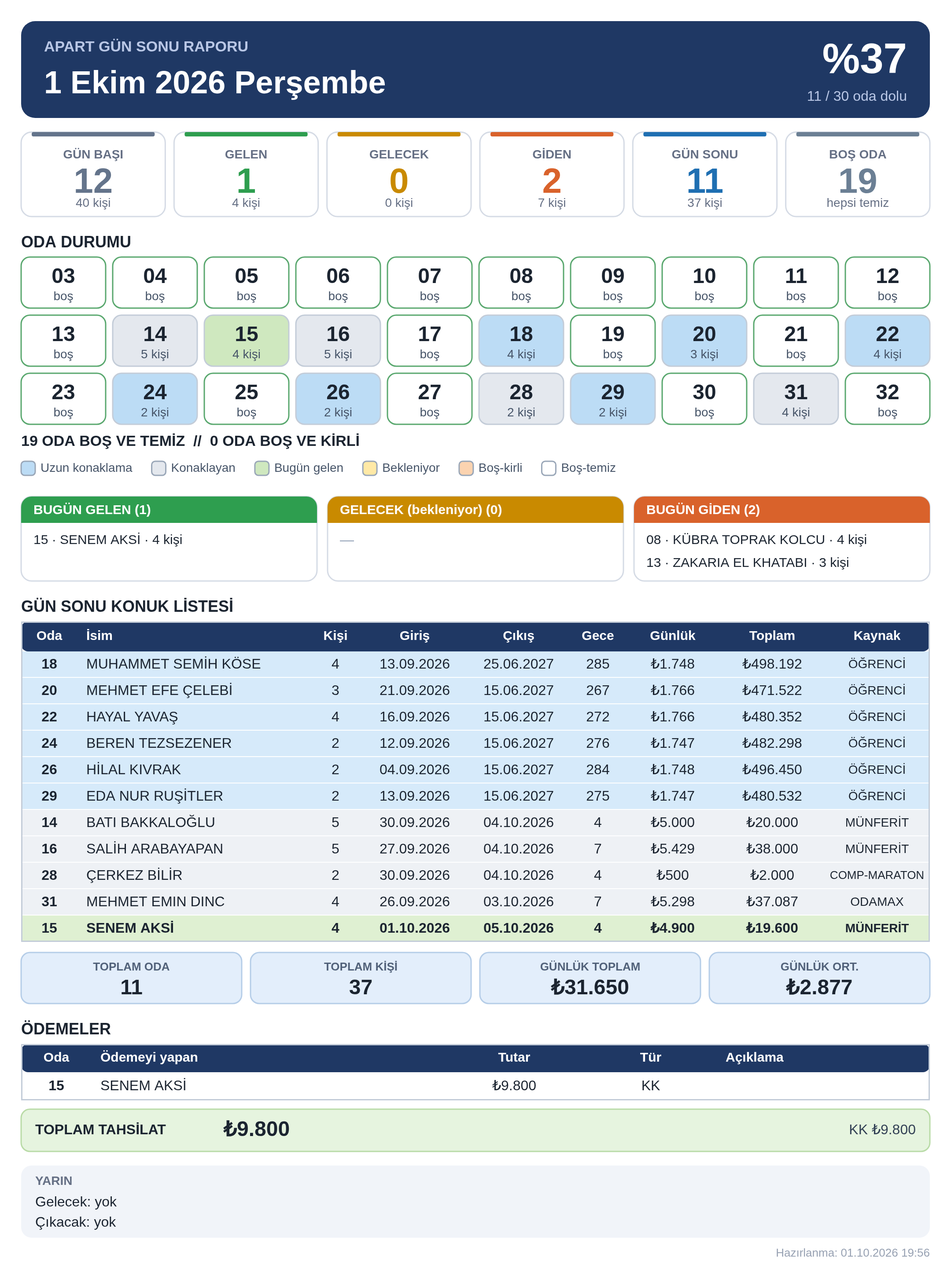
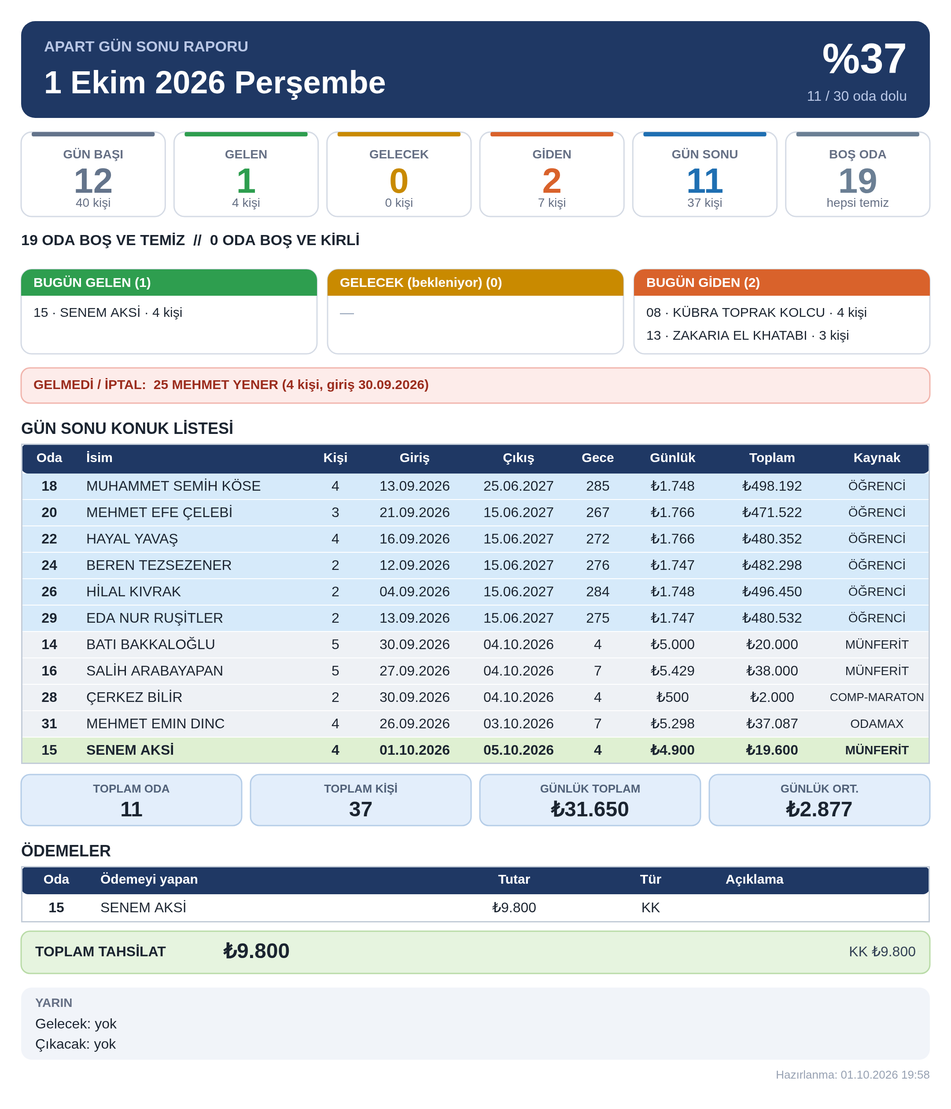
Oda haritası isteğe bağlı (varsayılan kapalı), raporda Gelmedi/İptal satırı
Claude-Session: https://claude.ai/code/session_01T4sfVcNUf8XkxpV9wwbkxF

diff --git a/apart-rapor/ORNEK_Apart_Gunluk_Rapor_01.10.2026.html b/apart-rapor/ORNEK_Apart_Gunluk_Rapor_01.10.2026.html
@@ -66,6 +66,7 @@ td .btn{padding:4px 9px;font-size:12px;margin-right:3px}
     <button class="btn big" id="gen">📄 Rapor Oluştur</button>
     <button class="btn" id="nextday">📅 Yeni güne geç</button>
     <button class="btn sec" id="savefile">💾 Günün dosyasını kaydet</button>
+    <button class="btn sec" id="mapbtn">🗺 Oda haritası: Kapalı</button>
     <label class="small">Format <select id="fmt" class="btn sec"><option value="yeni">Geliştirilmiş</option><option value="klasik">Klasik (mevcut)</option></select></label>
   </div>
   <div id="sumline" class="small noprint"></div>
@@ -147,7 +148,7 @@ td .btn{padding:4px 9px;font-size:12px;margin-right:3px}
 
 <dialog id="nd"><div id="nd-body"></div>
   <div class="row"><button class="btn sec" id="nd-save">💾 Bugünün dosyasını kaydet</button><button class="btn" id="nd-go">✅ Yeni güne geç</button><button class="btn sec" id="nd-x">Vazgeç</button></div></dialog>
-<script id="seed" type="application/json">{"id":"ymss8pfujxcslfi4","savedAt":1790884570498,"data":{"stays":[{"id":"j5alcr8s","oda":18,"ad":"MUHAMMET SEMİH KÖSE","kisi":4,"giris":"2026-09-13","cikis":"2027-06-25","durum":"Geldi","tutar":498192,"kaynak":"ÖĞRENCİ"},{"id":"p5t9b8co","oda":20,"ad":"MEHMET EFE ÇELEBİ","kisi":3,"giris":"2026-09-21","cikis":"2027-06-15","durum":"Geldi","tutar":471522,"kaynak":"ÖĞRENCİ"},{"id":"za66so74","oda":22,"ad":"HAYAL YAVAŞ","kisi":4,"giris":"2026-09-16","cikis":"2027-06-15","durum":"Geldi","tutar":480352,"kaynak":"ÖĞRENCİ"},{"id":"1mlf3p72","oda":24,"ad":"BEREN TEZSEZENER","kisi":2,"giris":"2026-09-12","cikis":"2027-06-15","durum":"Geldi","tutar":482298,"kaynak":"ÖĞRENCİ"},{"id":"kq8thff6","oda":26,"ad":"HİLAL KIVRAK","kisi":2,"giris":"2026-09-04","cikis":"2027-06-15","durum":"Geldi","tutar":496450,"kaynak":"ÖĞRENCİ"},{"id":"3h59126b","oda":29,"ad":"EDA NUR RUŞİTLER","kisi":2,"giris":"2026-09-13","cikis":"2027-06-15","durum":"Geldi","tutar":480532,"kaynak":"ÖĞRENCİ"},{"id":"6cfk8i7h","oda":13,"ad":"ZAKARIA EL KHATABI","kisi":3,"giris":"2026-09-25","cikis":"2026-10-01","durum":"Geldi","tutar":30600,"kaynak":"MÜNFERİT"},{"id":"k6odclco","oda":16,"ad":"SALİH ARABAYAPAN","kisi":5,"giris":"2026-09-27","cikis":"2026-10-04","durum":"Geldi","tutar":37999.99,"kaynak":"MÜNFERİT"},{"id":"4sgnzsr4","oda":31,"ad":"MEHMET EMIN DINC","kisi":4,"giris":"2026-09-26","cikis":"2026-10-03","durum":"Geldi","tutar":37087,"kaynak":"ODAMAX"},{"id":"csr3acvt","oda":8,"ad":"KÜBRA TOPRAK KOLCU","kisi":4,"giris":"2026-09-30","cikis":"2026-10-01","durum":"Geldi","tutar":4337,"kaynak":"JOLLYTUR"},{"id":"4p6zzh45","oda":14,"ad":"BATI BAKKALOĞLU","kisi":5,"giris":"2026-09-30","cikis":"2026-10-04","durum":"Geldi","tutar":20000,"kaynak":"MÜNFERİT"},{"id":"c47wvat9","oda":25,"ad":"MEHMET YENER","kisi":4,"giris":"2026-09-30","cikis":"2026-10-04","durum":"İptal","tutar":2000,"kaynak":"COMP-MARATON"},{"id":"jfmjv0xx","oda":28,"ad":"ÇERKEZ BİLİR","kisi":2,"giris":"2026-09-30","cikis":"2026-10-04","durum":"Geldi","tutar":2000,"kaynak":"COMP-MARATON"},{"id":"xreq15ri","oda":6,"ad":"ÖRNEK GİDEN MİSAFİR 06","kisi":3,"giris":"2026-09-27","cikis":"2026-09-30","durum":"Geldi","tutar":0,"kaynak":"MÜNFERİT"},{"id":"v0kl96nl","oda":7,"ad":"ÖRNEK GİDEN MİSAFİR 07","kisi":3,"giris":"2026-09-27","cikis":"2026-09-30","durum":"Geldi","tutar":0,"kaynak":"MÜNFERİT"},{"id":"a4uwehf2","oda":8,"ad":"ÖRNEK GİDEN MİSAFİR 08","kisi":4,"giris":"2026-09-27","cikis":"2026-09-30","durum":"Geldi","tutar":0,"kaynak":"MÜNFERİT"},{"id":"b0t1uxsn","oda":15,"ad":"SENEM AKSİ","kisi":4,"giris":"2026-10-01","cikis":"2026-10-05","durum":"Geldi","tutar":19600,"kaynak":"MÜNFERİT"}],"pays":[{"id":"mqpfkg4a","tarih":"2026-09-30","oda":14,"yapan":"BATI BAKKALOĞLU","tutar":10000,"tur":"KK","acik":""},{"id":"gc49s9f3","tarih":"2026-10-01","oda":15,"yapan":"SENEM AKSİ","tutar":9800,"tur":"KK","acik":""}],"kirli":{"2026-09-30":[6],"2026-10-01":[]},"kirliOk":{"2026-09-30":true,"2026-10-01":true},"date":"2026-10-01","format":"yeni","lastKaynak":"MÜNFERİT","set":{"oda1":3,"oda2":32,"maxKisi":6,"kaynaklar":["ÖĞRENCİ","MÜNFERİT","ODAMAX","JOLLYTUR","COMP-MARATON"],"turler":["NAKİT","KK","HAVALE/EFT"]},"chain":"ymss8pfujxcslfi4"}}</script>
+<script id="seed" type="application/json">{"id":"1gxwvk150uhp6fyd","savedAt":1790884684711,"data":{"stays":[{"id":"vnquc05c","oda":18,"ad":"MUHAMMET SEMİH KÖSE","kisi":4,"giris":"2026-09-13","cikis":"2027-06-25","durum":"Geldi","tutar":498192,"kaynak":"ÖĞRENCİ"},{"id":"6p3r9pll","oda":20,"ad":"MEHMET EFE ÇELEBİ","kisi":3,"giris":"2026-09-21","cikis":"2027-06-15","durum":"Geldi","tutar":471522,"kaynak":"ÖĞRENCİ"},{"id":"lewxxpde","oda":22,"ad":"HAYAL YAVAŞ","kisi":4,"giris":"2026-09-16","cikis":"2027-06-15","durum":"Geldi","tutar":480352,"kaynak":"ÖĞRENCİ"},{"id":"1t2t2m4b","oda":24,"ad":"BEREN TEZSEZENER","kisi":2,"giris":"2026-09-12","cikis":"2027-06-15","durum":"Geldi","tutar":482298,"kaynak":"ÖĞRENCİ"},{"id":"h4jdsp32","oda":26,"ad":"HİLAL KIVRAK","kisi":2,"giris":"2026-09-04","cikis":"2027-06-15","durum":"Geldi","tutar":496450,"kaynak":"ÖĞRENCİ"},{"id":"si2jdwiq","oda":29,"ad":"EDA NUR RUŞİTLER","kisi":2,"giris":"2026-09-13","cikis":"2027-06-15","durum":"Geldi","tutar":480532,"kaynak":"ÖĞRENCİ"},{"id":"jlnv4q4u","oda":13,"ad":"ZAKARIA EL KHATABI","kisi":3,"giris":"2026-09-25","cikis":"2026-10-01","durum":"Geldi","tutar":30600,"kaynak":"MÜNFERİT"},{"id":"i8cwrnsf","oda":16,"ad":"SALİH ARABAYAPAN","kisi":5,"giris":"2026-09-27","cikis":"2026-10-04","durum":"Geldi","tutar":37999.99,"kaynak":"MÜNFERİT"},{"id":"9whmcmhq","oda":31,"ad":"MEHMET EMIN DINC","kisi":4,"giris":"2026-09-26","cikis":"2026-10-03","durum":"Geldi","tutar":37087,"kaynak":"ODAMAX"},{"id":"jc0i1m2t","oda":8,"ad":"KÜBRA TOPRAK KOLCU","kisi":4,"giris":"2026-09-30","cikis":"2026-10-01","durum":"Geldi","tutar":4337,"kaynak":"JOLLYTUR"},{"id":"j2qjhaa1","oda":14,"ad":"BATI BAKKALOĞLU","kisi":5,"giris":"2026-09-30","cikis":"2026-10-04","durum":"Geldi","tutar":20000,"kaynak":"MÜNFERİT"},{"id":"oqf1vije","oda":25,"ad":"MEHMET YENER","kisi":4,"giris":"2026-09-30","cikis":"2026-10-04","durum":"İptal","tutar":2000,"kaynak":"COMP-MARATON"},{"id":"7q4mklrr","oda":28,"ad":"ÇERKEZ BİLİR","kisi":2,"giris":"2026-09-30","cikis":"2026-10-04","durum":"Geldi","tutar":2000,"kaynak":"COMP-MARATON"},{"id":"x1h4dpjb","oda":6,"ad":"ÖRNEK GİDEN MİSAFİR 06","kisi":3,"giris":"2026-09-27","cikis":"2026-09-30","durum":"Geldi","tutar":0,"kaynak":"MÜNFERİT"},{"id":"1dut8qqu","oda":7,"ad":"ÖRNEK GİDEN MİSAFİR 07","kisi":3,"giris":"2026-09-27","cikis":"2026-09-30","durum":"Geldi","tutar":0,"kaynak":"MÜNFERİT"},{"id":"432rl22n","oda":8,"ad":"ÖRNEK GİDEN MİSAFİR 08","kisi":4,"giris":"2026-09-27","cikis":"2026-09-30","durum":"Geldi","tutar":0,"kaynak":"MÜNFERİT"},{"id":"qbqhsy6p","oda":15,"ad":"SENEM AKSİ","kisi":4,"giris":"2026-10-01","cikis":"2026-10-05","durum":"Geldi","tutar":19600,"kaynak":"MÜNFERİT"}],"pays":[{"id":"p6noth90","tarih":"2026-09-30","oda":14,"yapan":"BATI BAKKALOĞLU","tutar":10000,"tur":"KK","acik":""},{"id":"02yp8bm8","tarih":"2026-10-01","oda":15,"yapan":"SENEM AKSİ","tutar":9800,"tur":"KK","acik":""}],"kirli":{"2026-09-30":[6],"2026-10-01":[]},"kirliOk":{"2026-09-30":true,"2026-10-01":true},"showMap":false,"date":"2026-10-01","format":"yeni","lastKaynak":"MÜNFERİT","set":{"oda1":3,"oda2":32,"maxKisi":6,"kaynaklar":["ÖĞRENCİ","MÜNFERİT","ODAMAX","JOLLYTUR","COMP-MARATON"],"turler":["NAKİT","KK","HAVALE/EFT"]},"chain":"1gxwvk150uhp6fyd"}}</script>
 <script>
 'use strict';
 const ORIGINAL = '<!doctype html>\n' + document.documentElement.outerHTML;  // gün dosyası kaydı için ham sayfa
@@ -167,7 +168,7 @@ const clean = s => (s || '').replace(/\s+/g, ' ').trim().toLocaleUpperCase('tr-T
 const esc = s => String(s ?? '').replace(/[&<>"]/g, c => ({ '&': '&amp;', '<': '&lt;', '>': '&gt;', '"': '&quot;' }[c]));
 
 const defaults = () => ({
-  stays: [], pays: [], kirli: {}, kirliOk: {}, date: todayISO(), format: 'yeni', lastKaynak: '',
+  stays: [], pays: [], kirli: {}, kirliOk: {}, showMap: false, date: todayISO(), format: 'yeni', lastKaynak: '',
   set: { oda1: 3, oda2: 32, maxKisi: 6,
     kaynaklar: ['ÖĞRENCİ', 'MÜNFERİT', 'ODAMAX', 'JOLLYTUR', 'COMP-MARATON'],
     turler: ['NAKİT', 'KK', 'HAVALE/EFT'] }
@@ -248,6 +249,7 @@ function compute(date) {
   const occ = new Set(r.gunSonu.map(s => +s.oda));
   r.bos = rooms().filter(o => !occ.has(o));
   r.pays = S.pays.filter(p => p.tarih === date);
+  r.noshow = S.stays.filter(s => s.durum === 'İptal' && (dn(s.giris) === D || dn(s.giris) === D - 1));
   return r;
 }
 
@@ -413,6 +415,7 @@ function drawReportV2(date) {
     });
     y += 96 + G;
     // Oda haritası
+    if (S.showMap) {
     T('ODA DURUMU', M, y + 14, { size: 18, bold: true }); y += 30;
     const perRow = 10, tg = 8, th = 58, tw = (IW - tg * (perRow - 1)) / perRow;
     rooms().forEach((o, i) => {
@@ -428,13 +431,16 @@ function drawReportV2(date) {
       T(l2, x + tw / 2, yy + 45, { size: 14, color: '#475569', align: 'center' });
     });
     y += Math.ceil(total / perRow) * (th + tg);
+    }
     T(`${R.bos.length - kir.length} ODA BOŞ VE TEMİZ  //  ${kir.length} ODA BOŞ VE KİRLİ${kir.length ? '  (' + kir.map(room2).join('-') + ')' : ''}`, M, y + 12, { size: 17, bold: true, maxW: IW });
     y += 28;
+    if (S.showMap) {
     let lx = M;
     [['#bcdcf5', 'Uzun konaklama'], ['#e4e8ee', 'Konaklayan'], ['#cfe8bf', 'Bugün gelen'], ['#ffe9a6', 'Bekleniyor'], ['#fbd3b0', 'Boş-kirli'], ['#fff', 'Boş-temiz']].forEach(([f, t]) => {
       box(lx, y + 6, 16, 16, 4, f, '#9aa7b8'); c.font = `400 14px ${FONT}`; T(t, lx + 22, y + 14, { size: 14, color: '#475569' }); lx += 22 + c.measureText(t).width + 22;
     });
-    y += 30 + G;
+    y += 30; }
+    y += G;
     // Hareketler
     const MAXL = 8, bw = (IW - 24) / 3;
     const mv = [['BUGÜN GELEN', R.gelen, '#2e9e4f'], ['GELECEK (bekleniyor)', R.gelecek, '#c98a00'], ['BUGÜN GİDEN', R.giden, '#d9622b']];
@@ -448,6 +454,10 @@ function drawReportV2(date) {
       ls.forEach((l, j) => T(l, x + 14, y + 50 + j * 26, { size: 15, maxW: bw - 26 }));
     });
     y += 30 + mh + G;
+    if (R.noshow.length) {
+      const txt = 'GELMEDİ / İPTAL:  ' + R.noshow.slice().sort((p, q) => p.oda - q.oda).map(x => `${room2(x.oda)} ${x.ad} (${x.kisi} kişi, giriş ${fmt(x.giris)})`).join('   ·   ');
+      box(M, y, IW, 40, 10, '#fdecea', '#f1b5ad'); T(txt, M + 14, y + 20, { size: 15, bold: true, color: '#9b2c1d', maxW: IW - 28 }); y += 40 + G;
+    }
     // Konuk tablosu
     T('GÜN SONU KONUK LİSTESİ', M, y + 14, { size: 18, bold: true }); y += 30;
     const cw = [64, 262, 62, 118, 118, 62, 108, 118, 120], cx = [M]; cw.forEach(w => cx.push(cx[cx.length - 1] + w));
@@ -618,7 +628,7 @@ function renderKon() {
     .sort((a, b) => dn(b.giris) - dn(a.giris) || a.oda - b.oda);
   $('#k-list').innerHTML = list.map(s => `<tr class="${bad.has(s.id) ? 'bad' : s.durum === 'İptal' ? 'cancel' : s.durum === 'Bekleniyor' ? 'new' : ''}">
     <td>${esc(s.oda)}</td><td>${esc(s.ad)}</td><td>${s.kisi}</td><td>${fmt(s.giris)}</td><td>${fmt(s.cikis)}</td><td>${s.durum}</td><td>${TL(s.tutar)}</td><td>${esc(s.kaynak)}</td>
-    <td style="white-space:nowrap">${s.durum === 'Bekleniyor' ? `<button class="btn" data-a="geldi" data-id="${s.id}">Geldi</button><button class="btn sec" data-a="iptal" data-id="${s.id}">İptal</button>` : ''}
+    <td style="white-space:nowrap">${s.durum === 'Bekleniyor' ? `<button class="btn" data-a="geldi" data-id="${s.id}">Geldi</button><button class="btn sec" data-a="iptal" data-id="${s.id}">Gelmedi / İptal</button>` : ''}
     <button class="btn sec" data-a="edit" data-id="${s.id}">Düzenle</button><button class="btn red" data-a="del" data-id="${s.id}">Sil</button></td></tr>`).join('') || '<tr><td colspan="9" class="small">Kayıt yok</td></tr>';
 }
 function stayAct(b) {
@@ -655,7 +665,7 @@ $('#o-filter').onchange = renderOde;
 
 function renderQuick(R) {
   const li = (s, btns = '') => `<li><b>${room2(s.oda)}</b> · ${esc(s.ad)} · ${s.kisi} kişi ${btns}</li>`;
-  const bt = id => `<button class="btn" data-a="geldi" data-id="${id}">Geldi</button><button class="btn sec" data-a="iptal" data-id="${id}">İptal</button>`;
+  const bt = id => `<button class="btn" data-a="geldi" data-id="${id}">Geldi</button><button class="btn sec" data-a="iptal" data-id="${id}">Gelmedi / İptal</button>`;
   const ul = (a, f) => a.length ? `<ul>${a.map(f).join('')}</ul>` : '<div class="small">Yok</div>';
   $('#quick').innerHTML = `<div class="cards">
     <div class="card"><h3>Bugün gelecekler — bekleniyor (${R.gelecek.length})</h3>${ul(R.gelecek, s => li(s, bt(s.id)))}</div>
@@ -679,7 +689,7 @@ $('#kirliBox').onclick = e => {
 function renderRapor() {
   const errs = allErrors(), date = S.date;
   let html = '', ok = true;
-  $('#fmt').value = S.format;
+  $('#fmt').value = S.format; $('#mapbtn').textContent = `🗺 Oda haritası: ${S.showMap ? 'Açık' : 'Kapalı'}`; $('#mapbtn').hidden = S.format === 'klasik';
   if (!validISO(date)) { $('#status').innerHTML = '<div class="msg bad">Geçerli bir rapor tarihi seçin.</div>'; $('#gen').disabled = true; $('#quick').innerHTML = $('#kirliBox').innerHTML = ''; return; }
   if (errs.length) { ok = false; html += `<div class="msg bad"><b>⚠ ${errs.length} hata var — düzeltmeden rapor oluşturulamaz</b><ul>${errs.map(e => `<li>${esc(e)}</li>`).join('')}</ul></div>`; }
   const R = compute(date);
@@ -691,7 +701,8 @@ function renderRapor() {
   renderQuick(R); renderKirli(R);
   $('#status').innerHTML = html; $('#gen').disabled = !ok;
 }
-$('#fmt').onchange = () => { S.format = $('#fmt').value; save(); };
+$('#fmt').onchange = () => { S.format = $('#fmt').value; save(); renderRapor(); };
+$('#mapbtn').onclick = () => { const had = !!lastCanvas; S.showMap = !S.showMap; save(); renderRapor(); if (had && !$('#gen').disabled) $('#gen').click(); };
 function invalidate() { lastCanvas = null; $('#result').innerHTML = ''; $('#actions').hidden = true; }
 $('#gen').onclick = () => {
   if (allErrors().length) return;
@@ -762,7 +773,7 @@ function renderNextDay() {
   let h = `<h2>${fmt(S.date)} günü kapatılıyor → ${fmt(next)}</h2>`;
   if (errs.length) h += `<div class="msg bad"><b>Önce hataları düzeltin (${errs.length}):</b><ul>${errs.map(e => `<li>${esc(e)}</li>`).join('')}</ul></div>`;
   if (unres.length) h += `<div class="msg warn"><b>Gelmesi beklenen misafirleri sonuçlandırın:</b><ul style="list-style:none;padding:0">${unres.map(x => `<li style="margin:6px 0"><b>${room2(x.oda)}</b> · ${esc(x.ad)} · ${x.kisi} kişi
-    <button class="btn" data-a="geldi" data-id="${x.id}">Geldi</button> <button class="btn sec" data-a="iptal" data-id="${x.id}">İptal</button></li>`).join('')}</ul></div>`;
+    <button class="btn" data-a="geldi" data-id="${x.id}">Geldi</button> <button class="btn sec" data-a="iptal" data-id="${x.id}">Gelmedi / İptal</button></li>`).join('')}</ul></div>`;
   if (!errs.length && !unres.length) h += '<div class="msg ok">✔ Kontroller temiz.</div>';
   h += `<div class="card"><h3>Yeni güne devreden</h3><ul>
     <li>Konaklamaya devam eden: <b>${R.gunSonu.length} oda / ${R.k.gunSonu} kişi</b> (${rl(R.gunSonu)})</li>

diff --git a/apart-rapor/ORNEK_Apart_Gunluk_Rapor_30.09.2026.html b/apart-rapor/ORNEK_Apart_Gunluk_Rapor_30.09.2026.html
@@ -66,6 +66,7 @@ td .btn{padding:4px 9px;font-size:12px;margin-right:3px}
     <button class="btn big" id="gen">📄 Rapor Oluştur</button>
     <button class="btn" id="nextday">📅 Yeni güne geç</button>
     <button class="btn sec" id="savefile">💾 Günün dosyasını kaydet</button>
+    <button class="btn sec" id="mapbtn">🗺 Oda haritası: Kapalı</button>
     <label class="small">Format <select id="fmt" class="btn sec"><option value="yeni">Geliştirilmiş</option><option value="klasik">Klasik (mevcut)</option></select></label>
   </div>
   <div id="sumline" class="small noprint"></div>
@@ -147,7 +148,7 @@ td .btn{padding:4px 9px;font-size:12px;margin-right:3px}
 
 <dialog id="nd"><div id="nd-body"></div>
   <div class="row"><button class="btn sec" id="nd-save">💾 Bugünün dosyasını kaydet</button><button class="btn" id="nd-go">✅ Yeni güne geç</button><button class="btn sec" id="nd-x">Vazgeç</button></div></dialog>
-<script id="seed" type="application/json">{"id":"ymss8pfujxcslfi4","savedAt":1790884568735,"data":{"stays":[{"id":"j5alcr8s","oda":18,"ad":"MUHAMMET SEMİH KÖSE","kisi":4,"giris":"2026-09-13","cikis":"2027-06-25","durum":"Geldi","tutar":498192,"kaynak":"ÖĞRENCİ"},{"id":"p5t9b8co","oda":20,"ad":"MEHMET EFE ÇELEBİ","kisi":4,"giris":"2026-09-21","cikis":"2027-06-15","durum":"Geldi","tutar":471522,"kaynak":"ÖĞRENCİ"},{"id":"za66so74","oda":22,"ad":"HAYAL YAVAŞ","kisi":4,"giris":"2026-09-16","cikis":"2027-06-15","durum":"Geldi","tutar":480352,"kaynak":"ÖĞRENCİ"},{"id":"1mlf3p72","oda":24,"ad":"BEREN TEZSEZENER","kisi":2,"giris":"2026-09-12","cikis":"2027-06-15","durum":"Geldi","tutar":482298,"kaynak":"ÖĞRENCİ"},{"id":"kq8thff6","oda":26,"ad":"HİLAL KIVRAK","kisi":2,"giris":"2026-09-04","cikis":"2027-06-15","durum":"Geldi","tutar":496450,"kaynak":"ÖĞRENCİ"},{"id":"3h59126b","oda":29,"ad":"EDA NUR RUŞİTLER","kisi":2,"giris":"2026-09-13","cikis":"2027-06-15","durum":"Geldi","tutar":480532,"kaynak":"ÖĞRENCİ"},{"id":"6cfk8i7h","oda":13,"ad":"ZAKARIA EL KHATABI","kisi":3,"giris":"2026-09-25","cikis":"2026-10-01","durum":"Geldi","tutar":30600,"kaynak":"MÜNFERİT"},{"id":"k6odclco","oda":16,"ad":"SALİH ARABAYAPAN","kisi":5,"giris":"2026-09-27","cikis":"2026-10-04","durum":"Geldi","tutar":37999.99,"kaynak":"MÜNFERİT"},{"id":"4sgnzsr4","oda":31,"ad":"MEHMET EMIN DINC","kisi":4,"giris":"2026-09-26","cikis":"2026-10-03","durum":"Geldi","tutar":37087,"kaynak":"ODAMAX"},{"id":"csr3acvt","oda":8,"ad":"KÜBRA TOPRAK KOLCU","kisi":4,"giris":"2026-09-30","cikis":"2026-10-01","durum":"Geldi","tutar":4337,"kaynak":"JOLLYTUR"},{"id":"4p6zzh45","oda":14,"ad":"BATI BAKKALOĞLU","kisi":5,"giris":"2026-09-30","cikis":"2026-10-04","durum":"Geldi","tutar":20000,"kaynak":"MÜNFERİT"},{"id":"c47wvat9","oda":25,"ad":"MEHMET YENER","kisi":4,"giris":"2026-09-30","cikis":"2026-10-04","durum":"Bekleniyor","tutar":2000,"kaynak":"COMP-MARATON"},{"id":"jfmjv0xx","oda":28,"ad":"ÇERKEZ BİLİR","kisi":2,"giris":"2026-09-30","cikis":"2026-10-04","durum":"Bekleniyor","tutar":2000,"kaynak":"COMP-MARATON"},{"id":"xreq15ri","oda":6,"ad":"ÖRNEK GİDEN MİSAFİR 06","kisi":3,"giris":"2026-09-27","cikis":"2026-09-30","durum":"Geldi","tutar":0,"kaynak":"MÜNFERİT"},{"id":"v0kl96nl","oda":7,"ad":"ÖRNEK GİDEN MİSAFİR 07","kisi":3,"giris":"2026-09-27","cikis":"2026-09-30","durum":"Geldi","tutar":0,"kaynak":"MÜNFERİT"},{"id":"a4uwehf2","oda":8,"ad":"ÖRNEK GİDEN MİSAFİR 08","kisi":4,"giris":"2026-09-27","cikis":"2026-09-30","durum":"Geldi","tutar":0,"kaynak":"MÜNFERİT"}],"pays":[{"id":"mqpfkg4a","tarih":"2026-09-30","oda":14,"yapan":"BATI BAKKALOĞLU","tutar":10000,"tur":"KK","acik":""}],"kirli":{"2026-09-30":[6]},"kirliOk":{"2026-09-30":true},"date":"2026-09-30","format":"yeni","lastKaynak":"","set":{"oda1":3,"oda2":32,"maxKisi":6,"kaynaklar":["ÖĞRENCİ","MÜNFERİT","ODAMAX","JOLLYTUR","COMP-MARATON"],"turler":["NAKİT","KK","HAVALE/EFT"]},"chain":"ymss8pfujxcslfi4"}}</script>
+<script id="seed" type="application/json">{"id":"1gxwvk150uhp6fyd","savedAt":1790884682530,"data":{"stays":[{"id":"vnquc05c","oda":18,"ad":"MUHAMMET SEMİH KÖSE","kisi":4,"giris":"2026-09-13","cikis":"2027-06-25","durum":"Geldi","tutar":498192,"kaynak":"ÖĞRENCİ"},{"id":"6p3r9pll","oda":20,"ad":"MEHMET EFE ÇELEBİ","kisi":4,"giris":"2026-09-21","cikis":"2027-06-15","durum":"Geldi","tutar":471522,"kaynak":"ÖĞRENCİ"},{"id":"lewxxpde","oda":22,"ad":"HAYAL YAVAŞ","kisi":4,"giris":"2026-09-16","cikis":"2027-06-15","durum":"Geldi","tutar":480352,"kaynak":"ÖĞRENCİ"},{"id":"1t2t2m4b","oda":24,"ad":"BEREN TEZSEZENER","kisi":2,"giris":"2026-09-12","cikis":"2027-06-15","durum":"Geldi","tutar":482298,"kaynak":"ÖĞRENCİ"},{"id":"h4jdsp32","oda":26,"ad":"HİLAL KIVRAK","kisi":2,"giris":"2026-09-04","cikis":"2027-06-15","durum":"Geldi","tutar":496450,"kaynak":"ÖĞRENCİ"},{"id":"si2jdwiq","oda":29,"ad":"EDA NUR RUŞİTLER","kisi":2,"giris":"2026-09-13","cikis":"2027-06-15","durum":"Geldi","tutar":480532,"kaynak":"ÖĞRENCİ"},{"id":"jlnv4q4u","oda":13,"ad":"ZAKARIA EL KHATABI","kisi":3,"giris":"2026-09-25","cikis":"2026-10-01","durum":"Geldi","tutar":30600,"kaynak":"MÜNFERİT"},{"id":"i8cwrnsf","oda":16,"ad":"SALİH ARABAYAPAN","kisi":5,"giris":"2026-09-27","cikis":"2026-10-04","durum":"Geldi","tutar":37999.99,"kaynak":"MÜNFERİT"},{"id":"9whmcmhq","oda":31,"ad":"MEHMET EMIN DINC","kisi":4,"giris":"2026-09-26","cikis":"2026-10-03","durum":"Geldi","tutar":37087,"kaynak":"ODAMAX"},{"id":"jc0i1m2t","oda":8,"ad":"KÜBRA TOPRAK KOLCU","kisi":4,"giris":"2026-09-30","cikis":"2026-10-01","durum":"Geldi","tutar":4337,"kaynak":"JOLLYTUR"},{"id":"j2qjhaa1","oda":14,"ad":"BATI BAKKALOĞLU","kisi":5,"giris":"2026-09-30","cikis":"2026-10-04","durum":"Geldi","tutar":20000,"kaynak":"MÜNFERİT"},{"id":"oqf1vije","oda":25,"ad":"MEHMET YENER","kisi":4,"giris":"2026-09-30","cikis":"2026-10-04","durum":"Bekleniyor","tutar":2000,"kaynak":"COMP-MARATON"},{"id":"7q4mklrr","oda":28,"ad":"ÇERKEZ BİLİR","kisi":2,"giris":"2026-09-30","cikis":"2026-10-04","durum":"Bekleniyor","tutar":2000,"kaynak":"COMP-MARATON"},{"id":"x1h4dpjb","oda":6,"ad":"ÖRNEK GİDEN MİSAFİR 06","kisi":3,"giris":"2026-09-27","cikis":"2026-09-30","durum":"Geldi","tutar":0,"kaynak":"MÜNFERİT"},{"id":"1dut8qqu","oda":7,"ad":"ÖRNEK GİDEN MİSAFİR 07","kisi":3,"giris":"2026-09-27","cikis":"2026-09-30","durum":"Geldi","tutar":0,"kaynak":"MÜNFERİT"},{"id":"432rl22n","oda":8,"ad":"ÖRNEK GİDEN MİSAFİR 08","kisi":4,"giris":"2026-09-27","cikis":"2026-09-30","durum":"Geldi","tutar":0,"kaynak":"MÜNFERİT"}],"pays":[{"id":"p6noth90","tarih":"2026-09-30","oda":14,"yapan":"BATI BAKKALOĞLU","tutar":10000,"tur":"KK","acik":""}],"kirli":{"2026-09-30":[6]},"kirliOk":{"2026-09-30":true},"showMap":false,"date":"2026-09-30","format":"yeni","lastKaynak":"","set":{"oda1":3,"oda2":32,"maxKisi":6,"kaynaklar":["ÖĞRENCİ","MÜNFERİT","ODAMAX","JOLLYTUR","COMP-MARATON"],"turler":["NAKİT","KK","HAVALE/EFT"]},"chain":"1gxwvk150uhp6fyd"}}</script>
 <script>
 'use strict';
 const ORIGINAL = '<!doctype html>\n' + document.documentElement.outerHTML;  // gün dosyası kaydı için ham sayfa
@@ -167,7 +168,7 @@ const clean = s => (s || '').replace(/\s+/g, ' ').trim().toLocaleUpperCase('tr-T
 const esc = s => String(s ?? '').replace(/[&<>"]/g, c => ({ '&': '&amp;', '<': '&lt;', '>': '&gt;', '"': '&quot;' }[c]));
 
 const defaults = () => ({
-  stays: [], pays: [], kirli: {}, kirliOk: {}, date: todayISO(), format: 'yeni', lastKaynak: '',
+  stays: [], pays: [], kirli: {}, kirliOk: {}, showMap: false, date: todayISO(), format: 'yeni', lastKaynak: '',
   set: { oda1: 3, oda2: 32, maxKisi: 6,
     kaynaklar: ['ÖĞRENCİ', 'MÜNFERİT', 'ODAMAX', 'JOLLYTUR', 'COMP-MARATON'],
     turler: ['NAKİT', 'KK', 'HAVALE/EFT'] }
@@ -248,6 +249,7 @@ function compute(date) {
   const occ = new Set(r.gunSonu.map(s => +s.oda));
   r.bos = rooms().filter(o => !occ.has(o));
   r.pays = S.pays.filter(p => p.tarih === date);
+  r.noshow = S.stays.filter(s => s.durum === 'İptal' && (dn(s.giris) === D || dn(s.giris) === D - 1));
   return r;
 }
 
@@ -413,6 +415,7 @@ function drawReportV2(date) {
     });
     y += 96 + G;
     // Oda haritası
+    if (S.showMap) {
     T('ODA DURUMU', M, y + 14, { size: 18, bold: true }); y += 30;
     const perRow = 10, tg = 8, th = 58, tw = (IW - tg * (perRow - 1)) / perRow;
     rooms().forEach((o, i) => {
@@ -428,13 +431,16 @@ function drawReportV2(date) {
       T(l2, x + tw / 2, yy + 45, { size: 14, color: '#475569', align: 'center' });
     });
     y += Math.ceil(total / perRow) * (th + tg);
+    }
     T(`${R.bos.length - kir.length} ODA BOŞ VE TEMİZ  //  ${kir.length} ODA BOŞ VE KİRLİ${kir.length ? '  (' + kir.map(room2).join('-') + ')' : ''}`, M, y + 12, { size: 17, bold: true, maxW: IW });
     y += 28;
+    if (S.showMap) {
     let lx = M;
     [['#bcdcf5', 'Uzun konaklama'], ['#e4e8ee', 'Konaklayan'], ['#cfe8bf', 'Bugün gelen'], ['#ffe9a6', 'Bekleniyor'], ['#fbd3b0', 'Boş-kirli'], ['#fff', 'Boş-temiz']].forEach(([f, t]) => {
       box(lx, y + 6, 16, 16, 4, f, '#9aa7b8'); c.font = `400 14px ${FONT}`; T(t, lx + 22, y + 14, { size: 14, color: '#475569' }); lx += 22 + c.measureText(t).width + 22;
     });
-    y += 30 + G;
+    y += 30; }
+    y += G;
     // Hareketler
     const MAXL = 8, bw = (IW - 24) / 3;
     const mv = [['BUGÜN GELEN', R.gelen, '#2e9e4f'], ['GELECEK (bekleniyor)', R.gelecek, '#c98a00'], ['BUGÜN GİDEN', R.giden, '#d9622b']];
@@ -448,6 +454,10 @@ function drawReportV2(date) {
       ls.forEach((l, j) => T(l, x + 14, y + 50 + j * 26, { size: 15, maxW: bw - 26 }));
     });
     y += 30 + mh + G;
+    if (R.noshow.length) {
+      const txt = 'GELMEDİ / İPTAL:  ' + R.noshow.slice().sort((p, q) => p.oda - q.oda).map(x => `${room2(x.oda)} ${x.ad} (${x.kisi} kişi, giriş ${fmt(x.giris)})`).join('   ·   ');
+      box(M, y, IW, 40, 10, '#fdecea', '#f1b5ad'); T(txt, M + 14, y + 20, { size: 15, bold: true, color: '#9b2c1d', maxW: IW - 28 }); y += 40 + G;
+    }
     // Konuk tablosu
     T('GÜN SONU KONUK LİSTESİ', M, y + 14, { size: 18, bold: true }); y += 30;
     const cw = [64, 262, 62, 118, 118, 62, 108, 118, 120], cx = [M]; cw.forEach(w => cx.push(cx[cx.length - 1] + w));
@@ -618,7 +628,7 @@ function renderKon() {
     .sort((a, b) => dn(b.giris) - dn(a.giris) || a.oda - b.oda);
   $('#k-list').innerHTML = list.map(s => `<tr class="${bad.has(s.id) ? 'bad' : s.durum === 'İptal' ? 'cancel' : s.durum === 'Bekleniyor' ? 'new' : ''}">
     <td>${esc(s.oda)}</td><td>${esc(s.ad)}</td><td>${s.kisi}</td><td>${fmt(s.giris)}</td><td>${fmt(s.cikis)}</td><td>${s.durum}</td><td>${TL(s.tutar)}</td><td>${esc(s.kaynak)}</td>
-    <td style="white-space:nowrap">${s.durum === 'Bekleniyor' ? `<button class="btn" data-a="geldi" data-id="${s.id}">Geldi</button><button class="btn sec" data-a="iptal" data-id="${s.id}">İptal</button>` : ''}
+    <td style="white-space:nowrap">${s.durum === 'Bekleniyor' ? `<button class="btn" data-a="geldi" data-id="${s.id}">Geldi</button><button class="btn sec" data-a="iptal" data-id="${s.id}">Gelmedi / İptal</button>` : ''}
     <button class="btn sec" data-a="edit" data-id="${s.id}">Düzenle</button><button class="btn red" data-a="del" data-id="${s.id}">Sil</button></td></tr>`).join('') || '<tr><td colspan="9" class="small">Kayıt yok</td></tr>';
 }
 function stayAct(b) {
@@ -655,7 +665,7 @@ $('#o-filter').onchange = renderOde;
 
 function renderQuick(R) {
   const li = (s, btns = '') => `<li><b>${room2(s.oda)}</b> · ${esc(s.ad)} · ${s.kisi} kişi ${btns}</li>`;
-  const bt = id => `<button class="btn" data-a="geldi" data-id="${id}">Geldi</button><button class="btn sec" data-a="iptal" data-id="${id}">İptal</button>`;
+  const bt = id => `<button class="btn" data-a="geldi" data-id="${id}">Geldi</button><button class="btn sec" data-a="iptal" data-id="${id}">Gelmedi / İptal</button>`;
   const ul = (a, f) => a.length ? `<ul>${a.map(f).join('')}</ul>` : '<div class="small">Yok</div>';
   $('#quick').innerHTML = `<div class="cards">
     <div class="card"><h3>Bugün gelecekler — bekleniyor (${R.gelecek.length})</h3>${ul(R.gelecek, s => li(s, bt(s.id)))}</div>
@@ -679,7 +689,7 @@ $('#kirliBox').onclick = e => {
 function renderRapor() {
   const errs = allErrors(), date = S.date;
   let html = '', ok = true;
-  $('#fmt').value = S.format;
+  $('#fmt').value = S.format; $('#mapbtn').textContent = `🗺 Oda haritası: ${S.showMap ? 'Açık' : 'Kapalı'}`; $('#mapbtn').hidden = S.format === 'klasik';
   if (!validISO(date)) { $('#status').innerHTML = '<div class="msg bad">Geçerli bir rapor tarihi seçin.</div>'; $('#gen').disabled = true; $('#quick').innerHTML = $('#kirliBox').innerHTML = ''; return; }
   if (errs.length) { ok = false; html += `<div class="msg bad"><b>⚠ ${errs.length} hata var — düzeltmeden rapor oluşturulamaz</b><ul>${errs.map(e => `<li>${esc(e)}</li>`).join('')}</ul></div>`; }
   const R = compute(date);
@@ -691,7 +701,8 @@ function renderRapor() {
   renderQuick(R); renderKirli(R);
   $('#status').innerHTML = html; $('#gen').disabled = !ok;
 }
-$('#fmt').onchange = () => { S.format = $('#fmt').value; save(); };
+$('#fmt').onchange = () => { S.format = $('#fmt').value; save(); renderRapor(); };
+$('#mapbtn').onclick = () => { const had = !!lastCanvas; S.showMap = !S.showMap; save(); renderRapor(); if (had && !$('#gen').disabled) $('#gen').click(); };
 function invalidate() { lastCanvas = null; $('#result').innerHTML = ''; $('#actions').hidden = true; }
 $('#gen').onclick = () => {
   if (allErrors().length) return;
@@ -762,7 +773,7 @@ function renderNextDay() {
   let h = `<h2>${fmt(S.date)} günü kapatılıyor → ${fmt(next)}</h2>`;
   if (errs.length) h += `<div class="msg bad"><b>Önce hataları düzeltin (${errs.length}):</b><ul>${errs.map(e => `<li>${esc(e)}</li>`).join('')}</ul></div>`;
   if (unres.length) h += `<div class="msg warn"><b>Gelmesi beklenen misafirleri sonuçlandırın:</b><ul style="list-style:none;padding:0">${unres.map(x => `<li style="margin:6px 0"><b>${room2(x.oda)}</b> · ${esc(x.ad)} · ${x.kisi} kişi
-    <button class="btn" data-a="geldi" data-id="${x.id}">Geldi</button> <button class="btn sec" data-a="iptal" data-id="${x.id}">İptal</button></li>`).join('')}</ul></div>`;
+    <button class="btn" data-a="geldi" data-id="${x.id}">Geldi</button> <button class="btn sec" data-a="iptal" data-id="${x.id}">Gelmedi / İptal</button></li>`).join('')}</ul></div>`;
   if (!errs.length && !unres.length) h += '<div class="msg ok">✔ Kontroller temiz.</div>';
   h += `<div class="card"><h3>Yeni güne devreden</h3><ul>
     <li>Konaklamaya devam eden: <b>${R.gunSonu.length} oda / ${R.k.gunSonu} kişi</b> (${rl(R.gunSonu)})</li>

diff --git a/apart-rapor/rapor.html b/apart-rapor/rapor.html
@@ -67,6 +67,7 @@ td .btn{padding:4px 9px;font-size:12px;margin-right:3px}
     <button class="btn big" id="gen">📄 Rapor Oluştur</button>
     <button class="btn" id="nextday">📅 Yeni güne geç</button>
     <button class="btn sec" id="savefile">💾 Günün dosyasını kaydet</button>
+    <button class="btn sec" id="mapbtn">🗺 Oda haritası: Kapalı</button>
     <label class="small">Format <select id="fmt" class="btn sec"><option value="yeni">Geliştirilmiş</option><option value="klasik">Klasik (mevcut)</option></select></label>
   </div>
   <div id="sumline" class="small noprint"></div>
@@ -168,7 +169,7 @@ const clean = s => (s || '').replace(/\s+/g, ' ').trim().toLocaleUpperCase('tr-T
 const esc = s => String(s ?? '').replace(/[&<>"]/g, c => ({ '&': '&amp;', '<': '&lt;', '>': '&gt;', '"': '&quot;' }[c]));
 
 const defaults = () => ({
-  stays: [], pays: [], kirli: {}, kirliOk: {}, date: todayISO(), format: 'yeni', lastKaynak: '',
+  stays: [], pays: [], kirli: {}, kirliOk: {}, showMap: false, date: todayISO(), format: 'yeni', lastKaynak: '',
   set: { oda1: 3, oda2: 32, maxKisi: 6,
     kaynaklar: ['ÖĞRENCİ', 'MÜNFERİT', 'ODAMAX', 'JOLLYTUR', 'COMP-MARATON'],
     turler: ['NAKİT', 'KK', 'HAVALE/EFT'] }
@@ -249,6 +250,7 @@ function compute(date) {
   const occ = new Set(r.gunSonu.map(s => +s.oda));
   r.bos = rooms().filter(o => !occ.has(o));
   r.pays = S.pays.filter(p => p.tarih === date);
+  r.noshow = S.stays.filter(s => s.durum === 'İptal' && (dn(s.giris) === D || dn(s.giris) === D - 1));
   return r;
 }
 
@@ -414,6 +416,7 @@ function drawReportV2(date) {
     });
     y += 96 + G;
     // Oda haritası
+    if (S.showMap) {
     T('ODA DURUMU', M, y + 14, { size: 18, bold: true }); y += 30;
     const perRow = 10, tg = 8, th = 58, tw = (IW - tg * (perRow - 1)) / perRow;
     rooms().forEach((o, i) => {
@@ -429,13 +432,16 @@ function drawReportV2(date) {
       T(l2, x + tw / 2, yy + 45, { size: 14, color: '#475569', align: 'center' });
     });
     y += Math.ceil(total / perRow) * (th + tg);
+    }
     T(`${R.bos.length - kir.length} ODA BOŞ VE TEMİZ  //  ${kir.length} ODA BOŞ VE KİRLİ${kir.length ? '  (' + kir.map(room2).join('-') + ')' : ''}`, M, y + 12, { size: 17, bold: true, maxW: IW });
     y += 28;
+    if (S.showMap) {
     let lx = M;
     [['#bcdcf5', 'Uzun konaklama'], ['#e4e8ee', 'Konaklayan'], ['#cfe8bf', 'Bugün gelen'], ['#ffe9a6', 'Bekleniyor'], ['#fbd3b0', 'Boş-kirli'], ['#fff', 'Boş-temiz']].forEach(([f, t]) => {
       box(lx, y + 6, 16, 16, 4, f, '#9aa7b8'); c.font = `400 14px ${FONT}`; T(t, lx + 22, y + 14, { size: 14, color: '#475569' }); lx += 22 + c.measureText(t).width + 22;
     });
-    y += 30 + G;
+    y += 30; }
+    y += G;
     // Hareketler
     const MAXL = 8, bw = (IW - 24) / 3;
     const mv = [['BUGÜN GELEN', R.gelen, '#2e9e4f'], ['GELECEK (bekleniyor)', R.gelecek, '#c98a00'], ['BUGÜN GİDEN', R.giden, '#d9622b']];
@@ -449,6 +455,10 @@ function drawReportV2(date) {
       ls.forEach((l, j) => T(l, x + 14, y + 50 + j * 26, { size: 15, maxW: bw - 26 }));
     });
     y += 30 + mh + G;
+    if (R.noshow.length) {
+      const txt = 'GELMEDİ / İPTAL:  ' + R.noshow.slice().sort((p, q) => p.oda - q.oda).map(x => `${room2(x.oda)} ${x.ad} (${x.kisi} kişi, giriş ${fmt(x.giris)})`).join('   ·   ');
+      box(M, y, IW, 40, 10, '#fdecea', '#f1b5ad'); T(txt, M + 14, y + 20, { size: 15, bold: true, color: '#9b2c1d', maxW: IW - 28 }); y += 40 + G;
+    }
     // Konuk tablosu
     T('GÜN SONU KONUK LİSTESİ', M, y + 14, { size: 18, bold: true }); y += 30;
     const cw = [64, 262, 62, 118, 118, 62, 108, 118, 120], cx = [M]; cw.forEach(w => cx.push(cx[cx.length - 1] + w));
@@ -619,7 +629,7 @@ function renderKon() {
     .sort((a, b) => dn(b.giris) - dn(a.giris) || a.oda - b.oda);
   $('#k-list').innerHTML = list.map(s => `<tr class="${bad.has(s.id) ? 'bad' : s.durum === 'İptal' ? 'cancel' : s.durum === 'Bekleniyor' ? 'new' : ''}">
     <td>${esc(s.oda)}</td><td>${esc(s.ad)}</td><td>${s.kisi}</td><td>${fmt(s.giris)}</td><td>${fmt(s.cikis)}</td><td>${s.durum}</td><td>${TL(s.tutar)}</td><td>${esc(s.kaynak)}</td>
-    <td style="white-space:nowrap">${s.durum === 'Bekleniyor' ? `<button class="btn" data-a="geldi" data-id="${s.id}">Geldi</button><button class="btn sec" data-a="iptal" data-id="${s.id}">İptal</button>` : ''}
+    <td style="white-space:nowrap">${s.durum === 'Bekleniyor' ? `<button class="btn" data-a="geldi" data-id="${s.id}">Geldi</button><button class="btn sec" data-a="iptal" data-id="${s.id}">Gelmedi / İptal</button>` : ''}
     <button class="btn sec" data-a="edit" data-id="${s.id}">Düzenle</button><button class="btn red" data-a="del" data-id="${s.id}">Sil</button></td></tr>`).join('') || '<tr><td colspan="9" class="small">Kayıt yok</td></tr>';
 }
 function stayAct(b) {
@@ -656,7 +666,7 @@ $('#o-filter').onchange = renderOde;
 
 function renderQuick(R) {
   const li = (s, btns = '') => `<li><b>${room2(s.oda)}</b> · ${esc(s.ad)} · ${s.kisi} kişi ${btns}</li>`;
-  const bt = id => `<button class="btn" data-a="geldi" data-id="${id}">Geldi</button><button class="btn sec" data-a="iptal" data-id="${id}">İptal</button>`;
+  const bt = id => `<button class="btn" data-a="geldi" data-id="${id}">Geldi</button><button class="btn sec" data-a="iptal" data-id="${id}">Gelmedi / İptal</button>`;
   const ul = (a, f) => a.length ? `<ul>${a.map(f).join('')}</ul>` : '<div class="small">Yok</div>';
   $('#quick').innerHTML = `<div class="cards">
     <div class="card"><h3>Bugün gelecekler — bekleniyor (${R.gelecek.length})</h3>${ul(R.gelecek, s => li(s, bt(s.id)))}</div>
@@ -680,7 +690,7 @@ $('#kirliBox').onclick = e => {
 function renderRapor() {
   const errs = allErrors(), date = S.date;
   let html = '', ok = true;
-  $('#fmt').value = S.format;
+  $('#fmt').value = S.format; $('#mapbtn').textContent = `🗺 Oda haritası: ${S.showMap ? 'Açık' : 'Kapalı'}`; $('#mapbtn').hidden = S.format === 'klasik';
   if (!validISO(date)) { $('#status').innerHTML = '<div class="msg bad">Geçerli bir rapor tarihi seçin.</div>'; $('#gen').disabled = true; $('#quick').innerHTML = $('#kirliBox').innerHTML = ''; return; }
   if (errs.length) { ok = false; html += `<div class="msg bad"><b>⚠ ${errs.length} hata var — düzeltmeden rapor oluşturulamaz</b><ul>${errs.map(e => `<li>${esc(e)}</li>`).join('')}</ul></div>`; }
   const R = compute(date);
@@ -692,7 +702,8 @@ function renderRapor() {
   renderQuick(R); renderKirli(R);
   $('#status').innerHTML = html; $('#gen').disabled = !ok;
 }
-$('#fmt').onchange = () => { S.format = $('#fmt').value; save(); };
+$('#fmt').onchange = () => { S.format = $('#fmt').value; save(); renderRapor(); };
+$('#mapbtn').onclick = () => { const had = !!lastCanvas; S.showMap = !S.showMap; save(); renderRapor(); if (had && !$('#gen').disabled) $('#gen').click(); };
 function invalidate() { lastCanvas = null; $('#result').innerHTML = ''; $('#actions').hidden = true; }
 $('#gen').onclick = () => {
   if (allErrors().length) return;
@@ -763,7 +774,7 @@ function renderNextDay() {
   let h = `<h2>${fmt(S.date)} günü kapatılıyor → ${fmt(next)}</h2>`;
   if (errs.length) h += `<div class="msg bad"><b>Önce hataları düzeltin (${errs.length}):</b><ul>${errs.map(e => `<li>${esc(e)}</li>`).join('')}</ul></div>`;
   if (unres.length) h += `<div class="msg warn"><b>Gelmesi beklenen misafirleri sonuçlandırın:</b><ul style="list-style:none;padding:0">${unres.map(x => `<li style="margin:6px 0"><b>${room2(x.oda)}</b> · ${esc(x.ad)} · ${x.kisi} kişi
-    <button class="btn" data-a="geldi" data-id="${x.id}">Geldi</button> <button class="btn sec" data-a="iptal" data-id="${x.id}">İptal</button></li>`).join('')}</ul></div>`;
+    <button class="btn" data-a="geldi" data-id="${x.id}">Geldi</button> <button class="btn sec" data-a="iptal" data-id="${x.id}">Gelmedi / İptal</button></li>`).join('')}</ul></div>`;
   if (!errs.length && !unres.length) h += '<div class="msg ok">✔ Kontroller temiz.</div>';
   h += `<div class="card"><h3>Yeni güne devreden</h3><ul>
     <li>Konaklamaya devam eden: <b>${R.gunSonu.length} oda / ${R.k.gunSonu} kişi</b> (${rl(R.gunSonu)})</li>

diff --git a/apart-rapor/KULLANIM.md b/apart-rapor/KULLANIM.md
@@ -49,8 +49,11 @@ Tarayıcıda açın (bilgisayar/telefon), verileri girin, **📄 Rapor Oluştur*
 ve hata varken rapor oluşturulmaz. Veriler tarayıcıda saklanır; Ayarlar'dan JSON yedeği alın. "Örnek veriyi yükle" ile 30.09.2026 örneği denenebilir.
 
 ### İki rapor formatı
-- **Geliştirilmiş (varsayılan):** doluluk %, gün başı/gelen/gelecek/giden/gün sonu/boş kutuları, renkli oda haritası, isimli hareket listeleri, konuk tablosu, ödemeler ve tahsilat toplamı, yarın özeti. Telefonda okunacak dikey formattır.
+- **Geliştirilmiş (varsayılan):** doluluk %, gün başı/gelen/gelecek/giden/gün sonu/boş kutuları, isimli hareket listeleri, konuk tablosu, ödemeler ve tahsilat toplamı, yarın özeti. Telefonda okunacak dikey formattır.
 - **Klasik:** mevcut Excel raporunuzun birebir görünümü. Rapor sekmesindeki "Format" menüsünden seçilir.
+
+- **Oda haritası** (renkli oda rack'i) varsayılan olarak **kapalı** gelir; Rapor sekmesindeki **🗺 Oda haritası** butonuyla açılıp kapatılır (görsel hazırsa anında yenilenir).
+- **Gelmedi / İptal:** gelmesi beklenen misafir gelmezse "Gelmedi / İptal" yapılır; misafir rapordan düşer ve gelmesi gereken günün ertesi günü de dahil olmak üzere raporda kırmızı **GELMEDİ / İPTAL** satırında görünür (ör. 25 numaralı oda).
 
 ### Resepsiyon için kolaylıklar
 - Yeni misafir formunda giriş tarihi rapor tarihi gelir; **gece sayısı** (veya 1/2/3/7/30 hızlı butonları) yazılınca çıkış tarihi otomatik hesaplanır.
